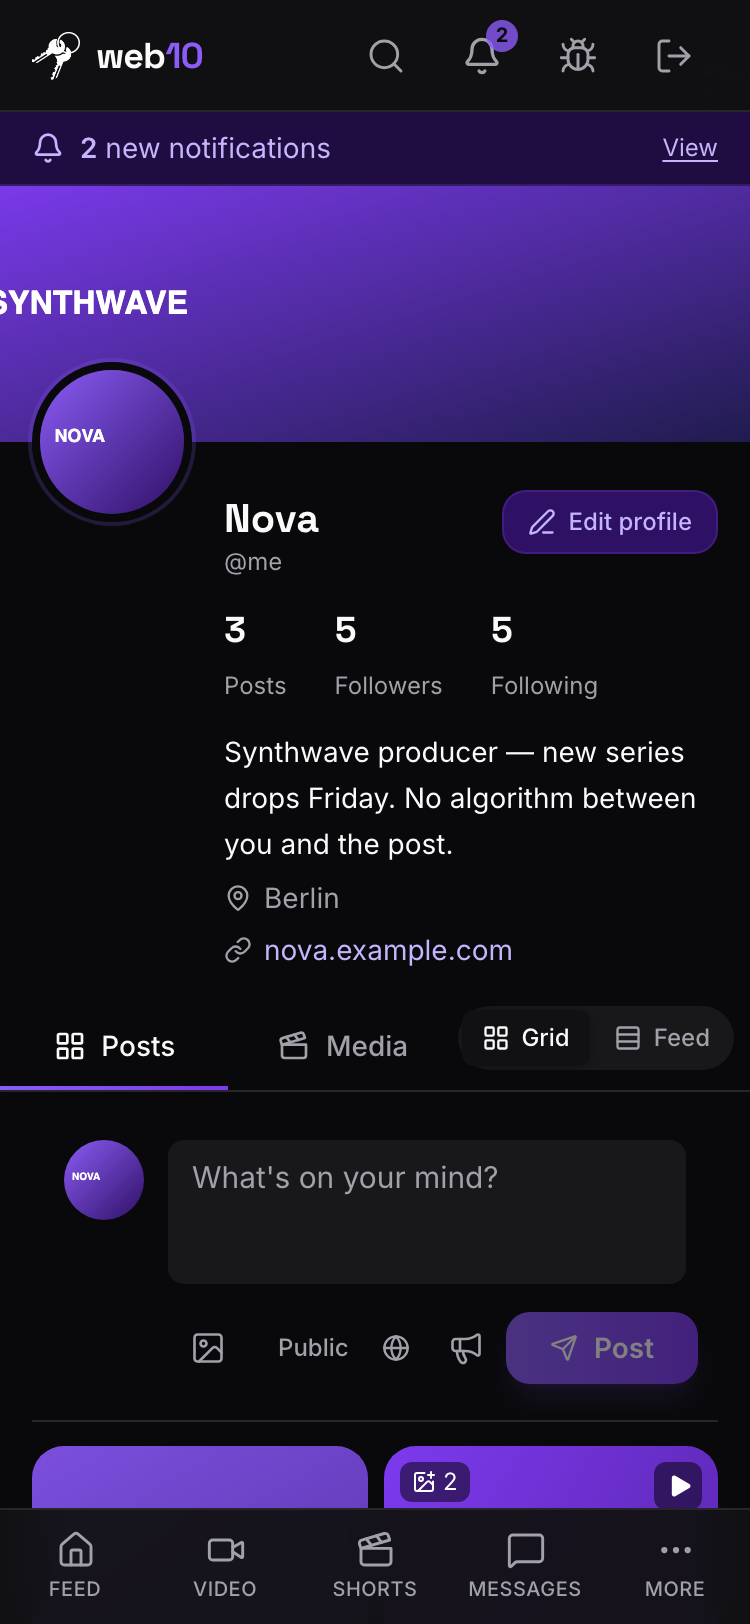
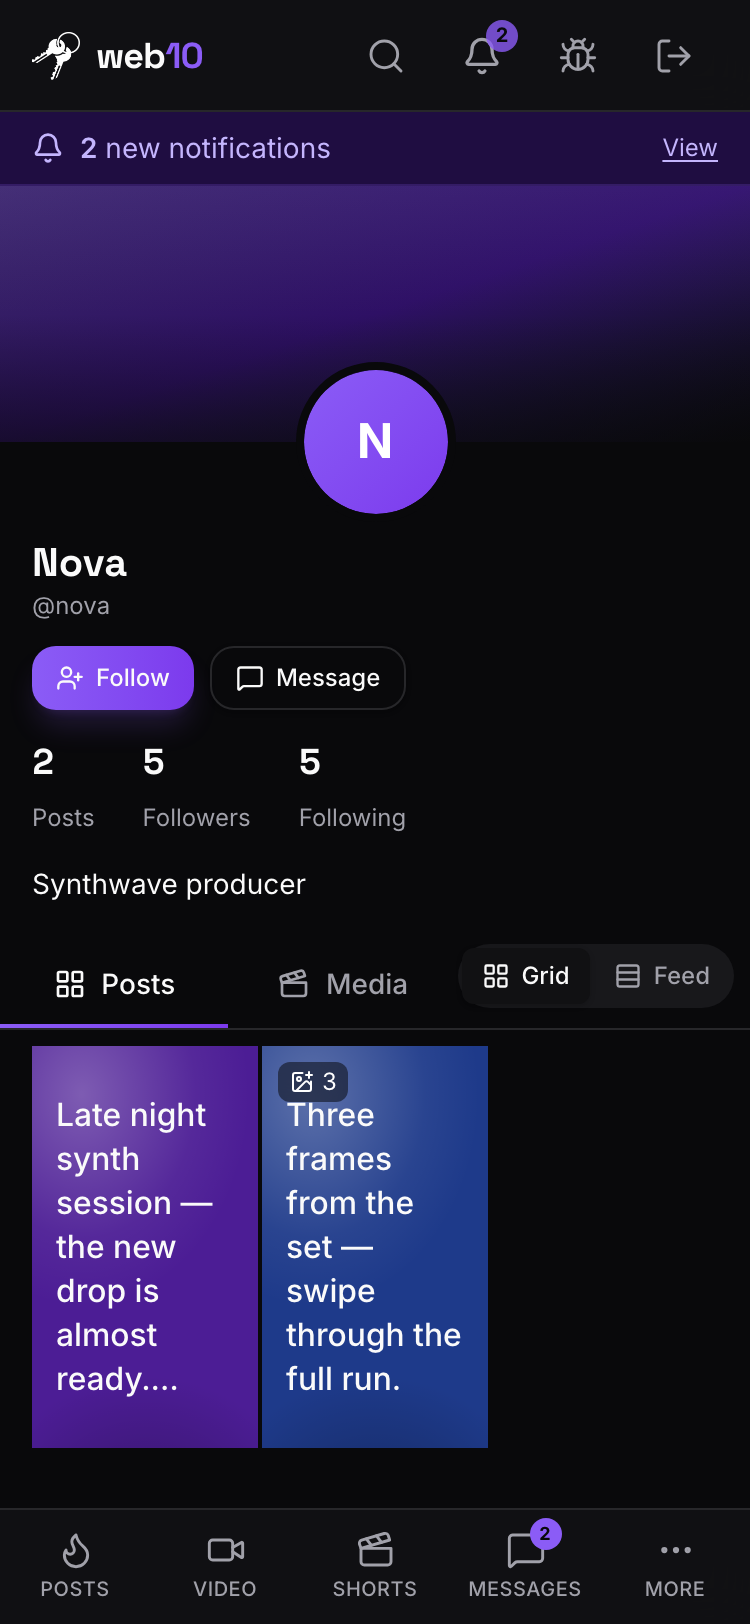
feat(web10-social): profile wall runs 3 tight columns on mobile (the Instagram shape) (3.189.0) (#1084)
* feat(web10-social): profile wall runs 3 tight columns on mobile (the Instagram shape) (3.189.0)

The profile wall's grid was grid-cols-2 on mobile, so at 375px the two 9:16 tiles were tall, sparse, and left a dead third of the screen empty. Now 3 tight columns at every width (gap-0.5 on mobile for the Instagram tight feel), square tiles on mobile (aspect-square sm:aspect-[9/16]) with the 9:16 video wall intact from sm up, responsive text-tile type, and the caption overlay only on media tiles. 1174 web10-social green, tsc clean.

* docs: tick 3.189.0 in the social-v3 lane

* fix(web10-social): text-only profile tiles span the full row on mobile (not a cramped 1/3 square)

A text-only post in the 3-col mobile grid rendered as a ~110px square with 18px text — a car crash. Text-only tiles now span all 3 columns on mobile (col-span-3 sm:col-span-1) with a 2:1 card aspect, so the quote card has room to breathe. Media tiles stay in the 3-up grid. Desktop unchanged.

* fix(web10-social): profile header buttons drop to a full-width row on mobile + square tiles (the Instagram shape)
[…]

diff --git a/marketing/web10-social/src/components/Bio/UserProfileScreen.tsx b/marketing/web10-social/src/components/Bio/UserProfileScreen.tsx
@@ -143,7 +143,10 @@ function WallTile({ media, testId, title, caption, postId, multiCount, onClick }
           onClick();
         }
       }}
-      className="relative aspect-[9/16] w-full bg-elevated overflow-hidden rounded-lg group cursor-pointer outline-none focus-visible:ring-2 focus-visible:ring-ring focus-visible:ring-inset"
+      className={cn(
+        'relative aspect-[9/16] w-full bg-elevated overflow-hidden group cursor-pointer outline-none focus-visible:ring-2 focus-visible:ring-ring focus-visible:ring-inset',
+        'rounded-none sm:rounded-lg',
+      )}
     >
       {video ? (
         <video
@@ -168,7 +171,7 @@ function WallTile({ media, testId, title, caption, postId, multiCount, onClick }
         // display face (Space Grotesk) with the caption under it. Vertically
         // centered, not corner-dumped — it reads as a card, not an empty box.
         <div
-          className="relative w-full h-full flex flex-col justify-center p-5"
+          className="relative w-full h-full flex flex-col justify-center p-3 sm:p-5"
           style={{ backgroundColor: textTileColor(postId) }}
           data-testid={`${testId}-text`}
         >
@@ -185,23 +188,21 @@ function WallTile({ media, testId, title, caption, postId, multiCount, onClick }
           <div className="relative">
             {title ? (
               <p
-                className="font-display font-semibold text-foreground leading-tight break-words line-clamp-5"
-                style={{ fontSize: '1.5rem' }}
+                className="font-display font-semibold text-foreground leading-tight break-words line-clamp-5 text-lg sm:text-2xl"
                 data-testid={`${testId}-text-title`}
               >
                 {title}
               </p>
             ) : (
               <p
-                className="font-medium text-foreground leading-snug break-words line-clamp-7"
-                style={{ fontSize: '1.25rem' }}
+                className="font-medium text-foreground leading-snug break-words line-clamp-7 text-base sm:text-xl"
                 data-testid={`${testId}-text-title`}
               >
                 {caption}
               </p>
             )}
             {title && caption && (
-              <p className="mt-2.5 text-sm text-foreground/80 leading-snug break-words line-clamp-4" data-testid={`${testId}-text-caption`}>
+              <p className="mt-1.5 sm:mt-2.5 text-xs sm:text-sm text-foreground/80 leading-snug break-words line-clamp-4" data-testid={`${testId}-text-caption`}>
                 {caption}
               </p>
             )}
@@ -221,8 +222,9 @@ function WallTile({ media, testId, title, caption, postId, multiCount, onClick }
           {multiCount}
         </div>
       )}
-      {/* The caption (the post text, the Instagram/TikTok overlay). */}
-      {caption && (
+      {/* The caption (the post text, the Instagram/TikTok overlay) — media tiles
+          only; a text tile already renders its text as the card face. */}
+      {caption && media.url && (
         <div className="absolute inset-x-0 bottom-0 p-2 bg-gradient-to-t from-black/70 via-black/30 to-transparent pointer-events-none">
           <p className="text-xs text-white line-clamp-2 leading-snug">{caption}</p>
         </div>
@@ -687,11 +689,12 @@ export default function UserProfileScreen({ username, provider, onBack }: UserPr
         )}
       </div>
 
-      {/* Header — the new-Instagram shape: the avatar on the left, the name /
-          stats / bio / action buttons stacked to its right. Full width (the
-          operator: "filling the whole screen"). */}
+      {/* Header — the new-Instagram shape. On mobile the avatar sits on top and
+          the name / stats / bio / action buttons stack below it at full width
+          (Instagram's mobile profile). On desktop the avatar is on the left
+          with the name + buttons beside it. */}
       <div className="px-4 pt-4 pb-4">
-        <div className="flex items-start gap-4 sm:gap-6">
+        <div className="flex flex-col sm:flex-row items-start gap-1.5 sm:gap-6">
           <div
             role="button"
             tabIndex={0}
@@ -705,7 +708,7 @@ export default function UserProfileScreen({ username, provider, onBack }: UserPr
               }
             }}
             className={cn(
-              '-mt-14 group shrink-0 cursor-pointer outline-none focus-visible:ring-2 focus-visible:ring-ring focus-visible:ring-inset rounded-full self-start',
+              '-mt-14 group shrink-0 cursor-pointer outline-none focus-visible:ring-2 focus-visible:ring-ring focus-visible:ring-inset rounded-full self-center sm:self-start',
               isOwnProfile ? 'relative' : '',
             )}>
             <Avatar className={cn(
@@ -740,8 +743,8 @@ export default function UserProfileScreen({ username, provider, onBack }: UserPr
           {/* The right column: name + @handle, the stats row, the bio, and the
               action buttons (Follow/Message for a viewer, Edit profile for the
               owner). The new-Instagram layout stacks them beside the avatar. */}
-          <div className="flex-1 min-w-0 pt-2">
-            <div className="flex items-start justify-between gap-4">
+          <div className="flex-1 min-w-0 pt-0 sm:pt-2">
+            <div className="flex flex-col sm:flex-row sm:items-start sm:justify-between gap-3 sm:gap-4">
               <div className="min-w-0">
                 {isOwnProfile && editing ? (
                   <Input
@@ -763,14 +766,14 @@ export default function UserProfileScreen({ username, provider, onBack }: UserPr
                   </>
                 )}
               </div>
-              <div className="flex shrink-0 items-center gap-2">
+              <div className="flex w-full sm:w-auto shrink-0 items-center gap-2">
                 {!isOwnProfile && (
                   <>
                     <Button
                       variant={following ? 'outline' : 'brand'}
                       size="sm"
                       className={cn(
-                        'gap-1.5 min-w-[100px]',
+                        'gap-1.5 flex-1 sm:flex-none sm:min-w-[100px]',
                         following && 'border-border hover:border-danger/50 hover:text-danger hover:bg-danger-muted',
                       )}
                       data-testid="follow-button"
@@ -794,7 +797,7 @@ export default function UserProfileScreen({ username, provider, onBack }: UserPr
                     <Button
                       variant="outline"
                       size="sm"
-                      className="gap-1.5 min-w-[100px] border-border hover:bg-elevated"
+                      className="gap-1.5 flex-1 sm:flex-none sm:min-w-[100px] border-border hover:bg-elevated"
                       data-testid="message-button"
                       onClick={() =>
                         navigate(`/messages?to=${username}&provider=${provider}`)
@@ -809,7 +812,7 @@ export default function UserProfileScreen({ username, provider, onBack }: UserPr
                   <Button
                     variant="brand_subtle"
                     size="sm"
-                    className="gap-1.5"
+                    className="gap-1.5 flex-1 sm:flex-none"
                     data-testid="edit-profile-button"
                     onClick={() => setEditing(true)}
                   >
@@ -1039,7 +1042,7 @@ export default function UserProfileScreen({ username, provider, onBack }: UserPr
                 onAuthorClick={(u) => navigate(`/u/${u}`)}
               />
             ) : (
-            <div className="grid grid-cols-2 gap-2 sm:grid-cols-3 lg:grid-cols-4">
+            <div className="grid grid-cols-3 gap-0.5 sm:gap-2 lg:grid-cols-4">
               {posts.map((post) => {
                 const firstMedia = post.media_refs?.[0] ? mediaMap[mediaRefId(post.media_refs[0])] : null;
                 // A post with no media renders as a caption-only tile (the
@@ -1079,7 +1082,7 @@ export default function UserProfileScreen({ username, provider, onBack }: UserPr
           )}
           </>
         ) : mediaPosts.length ? (
-          <div className="grid grid-cols-2 gap-2 sm:grid-cols-3 lg:grid-cols-4">
+          <div className="grid grid-cols-3 gap-0.5 sm:gap-2 lg:grid-cols-4">
             {mediaPosts.flatMap((post) =>
               (post.media_refs || []).map((ref) => {
                 const media = mediaMap[mediaRefId(ref)];

diff --git a/marketing/web10-social/screenshots/harness/entry.tsx b/marketing/web10-social/screenshots/harness/entry.tsx
@@ -76,6 +76,10 @@ function UserFollowersRoute() {
 function UserFollowingRoute() {
   return <UserFollowListScreen kind="following" />;
 }
+function UserProfileRoute() {
+  const { username } = useParams();
+  return <UserProfileScreen username={username || 'me'} provider={'web10'} />;
+}
 
 const params = new URLSearchParams(window.location.search);
 const screen = params.get('screen');
@@ -116,10 +120,10 @@ const initialRoute =
    : screen === 'chat-group-thread'
      ? '/messages/group/web10%2Fgroups%2Fusers%2Fnova%2Fchat-the-crew'
    : screen === 'people' ? '/people'
-   : screen === 'profile' ? '/u/me'
-   : screen === 'profile-followers' ? '/u/me/followers'
-   : screen === 'profile-following' ? '/u/me/following'
-   : screen === 'profile-feed' ? '/u/me?view=feed'
+    : screen === 'profile' ? '/u/nova'
+    : screen === 'profile-followers' ? '/u/nova/followers'
+    : screen === 'profile-following' ? '/u/nova/following'
+    : screen === 'profile-feed' ? '/u/nova?view=feed'
     : screen === 'monetize' ? '/monetize'
     : screen === 'monetize-node' ? '/monetize?tab=node'
     : screen === 'node-settings' ? '/node-settings'
@@ -148,7 +152,7 @@ createRoot(document.getElementById('root')!).render(
         <Route path="/groups" element={<GroupsScreen />} />
         <Route path="/groups/:groupId" element={<GroupDetailRoute />} />
         <Route path="/people" element={<DiscoverScreen />} />
-        <Route path="/u/:username" element={<UserProfileScreen username={'me'} provider={'web10'} />} />
+        <Route path="/u/:username" element={<UserProfileRoute />} />
         <Route path="/u/:username/followers" element={<UserFollowersRoute />} />
         <Route path="/u/:username/following" element={<UserFollowingRoute />} />
         <Route path="/monetize" element={<MonetizationScreen />} />

diff --git a/marketing/web10-social/src/__tests__/shortsScreen.test.tsx b/marketing/web10-social/src/__tests__/shortsScreen.test.tsx
@@ -313,13 +313,14 @@ describe('ShortsScreen — the vertical short-form feed (shorts.md)', () => {
     // Autoplay hands over: the new active slide plays… The handover is an async
     // effect chain (setActiveIndex → re-render → the InlineVideo play effect),
     // so under CI load it can exceed the default 1s waitFor — give it headroom.
+    // (10s: a 5s ceiling flaked on CI at 5019ms under load.)
     await waitFor(() => {
       expect(play1).toHaveBeenCalled();
-    }, { timeout: 5000 });
+    }, { timeout: 10000 });
     // …and the off-screen slide pauses.
     await waitFor(() => {
       expect(pause0).toHaveBeenCalled();
-    }, { timeout: 5000 });
+    }, { timeout: 10000 });
   });
 
   it('keyboard: ArrowDown swipes to the next slide (the desktop swipe)', async () => {

diff --git a/marketing/web10-social/src/__tests__/postActions.test.tsx b/marketing/web10-social/src/__tests__/postActions.test.tsx
@@ -204,7 +204,7 @@ describe('PostActions — the shared engagement bar (post-actions.md)', () => {
     fireEvent.click(screen.getByTestId('comment-send'));
     await vi.waitFor(() => {
       expect(onCommentCountChange).toHaveBeenCalledWith(1);
-    });
+    }, { timeout: 10000 });
     expect(screen.getByTestId('comment-button')).toHaveTextContent('1');
   });
 

diff --git a/knowledge/strategy/parallel-execution.md b/knowledge/strategy/parallel-execution.md
@@ -225,6 +225,8 @@ the hls.js player and the e2e gauntlet that proves it end-to-end.
 
   - [✓ 3.188.0] **The "New group" create entry returns to the People tab + the New Post FAB stops haunting surfaces where a post makes no sense** (operator, 30.09.2026: "dont see create groups button on the people tab, should be there" + "this is popping up on all screens, almost inappropriately so … make new post on people tab doesnt make sense, on the monetize tab doesnt make sense"). (1) The Groups browser's "New group" button was lost when the Discover split (3.171.0) carved the People destination out of `DiscoverGroupsTab` into `DiscoverExploreTab` — the mashed Groups section kept the filter chips + cards but not the create entry. It's back in the Groups section header (`explore-groups-new-button`, the same G4 draft flow → `/groups/{id}?edit=1`). (2) The floating "+" FAB (3.184.0) rendered on every signed-in route except Shorts/messages/anon — now only where posting IS the surface's job: `/feed`, `/video`, `/shorts`, and the viewer's OWN profile. Group pages keep their own "Post to this group" button. **Gates:** none. **Acceptance bar:** the People tab's Groups section shows "New group" (tap → draft → edit mode); the FAB is absent on People/Monetization/Settings/other-profiles and present on Posts/Video/Shorts/own-profile; 1174 social tests green, `tsc` clean.
 
+  - [✓ 3.197.0] **The profile runs the Instagram mobile shape — 3 tight phone-shaped (9:16) columns + a stacked header (avatar on top, name + full-width buttons below)** (operator, 30.09.2026, mobile profile screenshots + an Instagram reference: "we look amazing on desktop, but on mobile we have this … but insta looks like this i.e. 3 tight columns for mobile width i think it is sharper" → "this right alignment is killing me" + "is that one mono column? aka not what we said?" + "i like the three phone shaped columns"). **The fix (all client-side, `UserProfileScreen.tsx`, tokens only):** (1) the grid `grid-cols-2 gap-2 sm:grid-cols-3 lg:grid-cols-4` → `grid-cols-3 gap-0.5 sm:gap-2 lg:grid-cols-4` (3 tight columns at every width); (2) every tile (media + text-only) is a **9:16 phone-shaped** cell in the 3-up grid (`aspect-[9/16]`), square-cornered on mobile (`rounded-none sm:rounded-lg`) — the first pass tried square tiles + full-width text-only cards, the operator rejected it ("is that one mono column? … i like the three phone shaped columns"); (3) the text-tile type scale fixed inline `1.5rem`/`1.25rem` → responsive Tailwind steps (`text-lg sm:text-2xl` / `text-base sm:text-xl` / `p-3 sm:p-5`); (4) the bottom gradient caption overlay now renders only for media tiles (`caption && media.url`); (5) the header `flex items-start` → `flex flex-col sm:flex-row` — the avatar is centered on top on mobile (`self-center sm:self-start`) and the name + full-width buttons (`flex-1 sm:flex-none`) stack below it (the Instagram mobile shape); desktop keeps avatar-left / name+buttons-right. **Gates:** none. **Acceptance bar:** the profile shows 3 tight 9:16 columns + the stacked header at 375px (the Instagram shape), the 9:16 wall is intact on desktop; 1174 social tests green, `tsc` clean.
+
   - [✓ 3.189.0] **The "dead groups" fix — groups the operator created but could no longer edit or delete are healed, and deleting a group is now one tap in the My Groups list** (operator, 30.09.2026: "i dont see any way to delete groups, also some groups i created that arent letting me edit them, just dead groups. we should make some kind of healing that deletes them, you can check it out on the ubuntu deployment node"). **The root (a member-key format mismatch, found in the prod + dev ClickHouse):** the social app created community groups with the owner row under the FULL form (`web10.app/users/{username}`), but the node resolves the acting user to the BARE username (`_user` → the JWT `username`) on every path. The client's `owner` row was never matched by the node's permission checks, and `create_group` — not finding the bare-username creator among the passed members — added `{username} → admin`, a role NOT in the community contract, so the creator's resolvable role granted no `manageRoles`/`deleteGroup` → unmanageable ("dead"). Confirmed dead on the box: dev `boxin-club` + `new-group`, prod `boxin-club` + `e-sports-grinders`. **The fix (cross-lane: api + sdk + web10-social):** (1) **Root cause** — `createCommunityGroup`/`ensureCommunity` write the owner row under the BARE username (matching `_user` + the working followers group). (2) **Node ownership guarantee** — `create_group` replaces the `admin` fallback with `ensure_creator_owner` (the creator is re-pointed to `owner` when the contract defines one; no-op for owner-less groups). (3) **The self-heal** — new `POST /v3/groups/heal-owner` (gated creator == caller, idempotent) + SDK `healGroupOwner` + the app calls it on load (My Groups + group detail) when a self-created group is unmanageable, then re-reads. (4) **The delete affordance** — My Groups rows carry a Delete action for owners (two-tap confirm). **Live data:** the 4 dead groups on the box were healed directly in ClickHouse (additive `creator → owner` row; OPS-LOG). **Gates:** none. **Acceptance bar:** a dead group becomes editable/deletable on open (the heal fires + re-reads); the My Groups list shows Delete for owners (two-tap) and Leave for members; new groups are owned from birth (bare-username owner row); 1064 api + 1180 web10-social + 153 sdk green, ruff + tsc clean. KB: `groups/access.md` (the ownership-heal section).
 
   - [✓ 3.191.0] **Rich text: the `<PostBody>` markdown renderer + the type scale (D85)** (operator: "beautiful Notion, wordpress shit … beautiful fonts type things" + "whatever github does is pretty dope" + "lets do the render"). A new shared `<PostBody>` (`PostBody.tsx`) — `react-markdown` + `remark-gfm` + `remark-breaks` → `rehype-sanitize` (locked schema: no `<script>`, no `on*`, no `javascript:`/`data:`; the `web10:` mention scheme is allowed) → the brand type scale (design.md §5: H2/H3 Space Grotesk, body Inter, code JetBrains Mono, blockquote brand left-border, list brand-300 markers). Reconciles with `LinkEmbed.tsx` (`parseEmbed` / `isEmbeddable` — a YouTube / Vimeo link still becomes a player, a `web10:` mention becomes a tappable handle → `/u/:username`). Two densities: **light** (inline bold/italic/code/links only; block structure flattened to its inline text) on the repost-embed preview; **full** (the whole scale at `max-w-prose`) on the feed card + the lightbox. The **feed card is the primary read surface for text posts** (web10-social has no click-to-detail for text posts — the card IS the post), so it renders full. `remark-breaks` preserves line breaks so a plain-text (pre-change) post renders exactly as today (zero migration). **Also fixed (the operator, 30.09.2026: "when i edit a post it doesnt let me delete the pieces of media on the post"):** the edit flow (feed card + lightbox) now lets the owner **remove media** — an editable media grid with a remove button per item, the surviving `media_refs` written back on save (`updatePost` already supported `media_refs`; the UI just never exposed it). **Gates:** the D85 decision + `social/rich-text.md` (done). **Acceptance bar (met):** a markdown post renders typeset on the read surfaces (the PR shot shows an H2 + bold + italic + list + inline code + link); a plain-text post renders as today; a `<script>` / `onerror` / `javascript:` payload is stripped (the anti-test, `postBody.test.tsx`); the media-delete round-trip is tested (`postEditMedia.test.tsx`); `tsc` clean. Deps: `react-markdown`, `remark-gfm`, `remark-breaks`, `rehype-sanitize`. KB: `social/rich-text.md` ("The read side").

diff --git a/knowledge/changelogs/CHANGELOG.md b/knowledge/changelogs/CHANGELOG.md
@@ -1,3 +1,6 @@
+3.197.0 || 30.09.2026
+feat(web10-social): **the profile runs the Instagram mobile shape — 3 tight phone-shaped (9:16) columns + a stacked header (avatar on top, name + full-width buttons below)** — operator (30.09.2026, mobile profile screenshots + an Instagram reference): "we look amazing on desktop, but on mobile we have this … but insta looks like this i.e. 3 tight columns for mobile width i think it is sharper" → (after the first pass) "this right alignment is killing me" + "is that one mono column? aka not what we said?" + "i like the three phone shaped columns". **All client-side, `UserProfileScreen.tsx`, tokens only:** (1) **the grid** — `grid-cols-2 gap-2 sm:grid-cols-3 lg:grid-cols-4` → `grid-cols-3 gap-0.5 sm:gap-2 lg:grid-cols-4` on both the Posts + Media walls: 3 tight columns at every width (the gap drops to `0.5` on mobile for the Instagram "tight" feel, back to `2` from `sm`). (2) **the tiles** — every tile (media + text-only) is a **9:16 phone-shaped** cell in the 3-up grid (`aspect-[9/16]`), square-cornered on mobile (`rounded-none sm:rounded-lg`) for the tight grid, rounded from `sm`. (The first pass tried square tiles + full-width text-only cards — the operator rejected it: "is that one mono column? … i like the three phone shaped columns" — so text-only posts are 9:16 tiles in the grid like everything else, not full-row cards.) (3) **the text-tile type scale** — the quote-card text was fixed inline `1.5rem`/`1.25rem`; now responsive Tailwind steps (`text-lg sm:text-2xl` title, `text-base sm:text-xl` caption-only, `p-3 sm:p-5` padding) so it fits the 9:16 tile at every width. (4) **the caption overlay** — the bottom gradient caption overlay (the Instagram/TikTok media-tile treatment) now renders only for media tiles (`caption && media.url`); a text-only tile already renders its text as the card face, so the overlay was double-printing the caption. (5) **the header** — on mobile the name + Follow/Message buttons were squeezed into the column right of the avatar (the "right alignment" that read as a car crash); now the header is `flex-col sm:flex-row`: the **avatar is centered on top** (`self-center sm:self-start`) and the **name + full-width buttons stack below it** (the buttons are `flex-1 sm:flex-none`, the Instagram mobile shape); desktop keeps the avatar-left / name+buttons-right layout. **Tests:** 1174 web10-social green, `tsc` clean. Screenshots: `profile-{desktop,375}.png` (3 tight 9:16 columns + the stacked header on mobile, the 9:16 wall intact on desktop).
+
 3.196.0 || 30.09.2026
 feat(web10-social) + test: **saved collections — the data seam (D88, bite 1 of 5)** — the foundation for the playlist-on-profile feature (scoped in 3.195.0). New `src/data/saved.ts`: a **saved collection** is a group the app creates for the user (`kind: 'saved'` on the `web10-social-group-identity` face, the `web10-social-saved` platform tag, invite_only, owner-only); a **saved post** is a doc in the app-named `saved` service that `ref_value`s the target post's `doc_id` (a pointer, not a copy — posts/videos/shorts are all one `posts` doc, so one save covers all three). **Private by default** (owner row only → a non-owner's content read 403s, I3); **public** = the `anyone` reader row added via `addGroupMember` (the D58 publicness-is-a-role-grant idiom, the same call that makes a profile public). API: `createCollection(name, { visibility, slug })`, `getMyCollections()` (the D78 `getMyGroups({ tags: ['web10-social-saved'] })` read + per-group face + item count), `readCollection(groupId)` (the `ref_value` join → batch-resolve each `post_id` to a full `PostRecord` + media via the profile wall's resolve path; a dead ref degrades to `unavailable`, never failing the read), `savePostToCollection` / `removePostFromCollection` (the `saved` doc write/delete, no-op-on-duplicate self-heal), `setCollectionVisibility` (add/remove the `anyone` reader row + the face `visibility`), `renameCollection` / `deleteCollection`, `readSavedPostIds` (the "I saved this" fill). `GroupIdentity.kind` gains `'saved'`. **Zero node surface (D60)** — a client-side composition of groups + the identity face + a `ref_value` link; no new table, endpoint, column, or contract. **Tests:** `saved.test.ts` (16) — private-by-default owner-only create, the public `anyone` reader row, the D78 tag select, the `ref_value` join + dead-ref degrade, the I3 403 propagation, the save/remove self-heal no-ops, the visibility add/remove + idempotency, rename/delete, the saved-ids fill. 1190 web10-social green, `tsc` clean. Lane: `social-v3` in `parallel-execution.md`.
 
